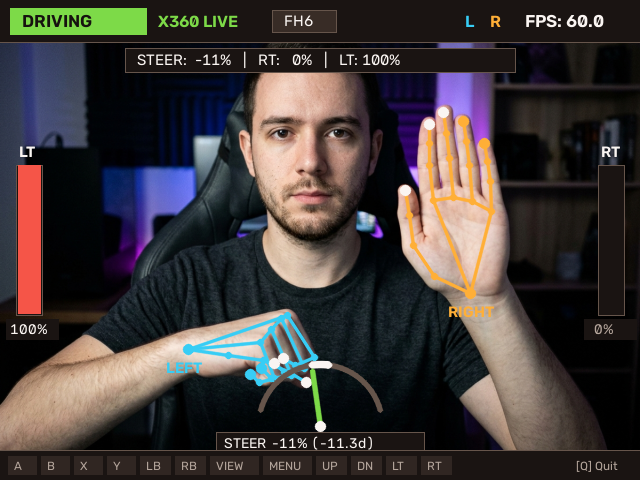
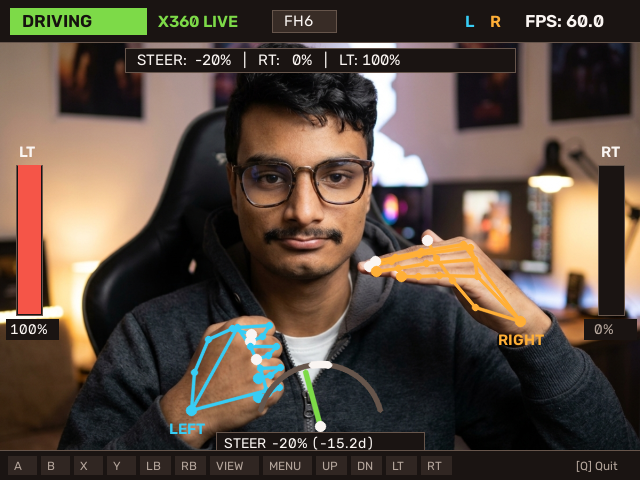
docs: replace README demo images with custom user poses

diff --git a/README.md b/README.md
@@ -8,7 +8,7 @@ A modular, low-latency Python system that uses **OpenCV**, **MediaPipe**, and **
 
 *Rendered directly through the live `tracker.py` → `gestures.py` → `hud.py` pipeline (`640×480`, `60 FPS` tracking + `120 Hz` control interpolation).*
 
-| Driving: Throttle + Right Steer (`FH4`) | Driving: Brake + Left Steer (`FH6`) | Menu Navigation: D-Pad + `LB` Tab (`FH5`) |
+| Driving: Throttle + Right Steer (`FH4`) | Driving: Brake + Left Steer (`FH6`) | Menu Navigation: Back (`B`) + `LB` Tab (`FH5`) |
 | :---: | :---: | :---: |
 | ![Driving Throttle HUD Demo](docs/images/driving_throttle_demo.png) | ![Driving Brake HUD Demo](docs/images/driving_brake_demo.png) | ![Menu Mode HUD Demo](docs/images/menu_hud_demo.png) |
 
